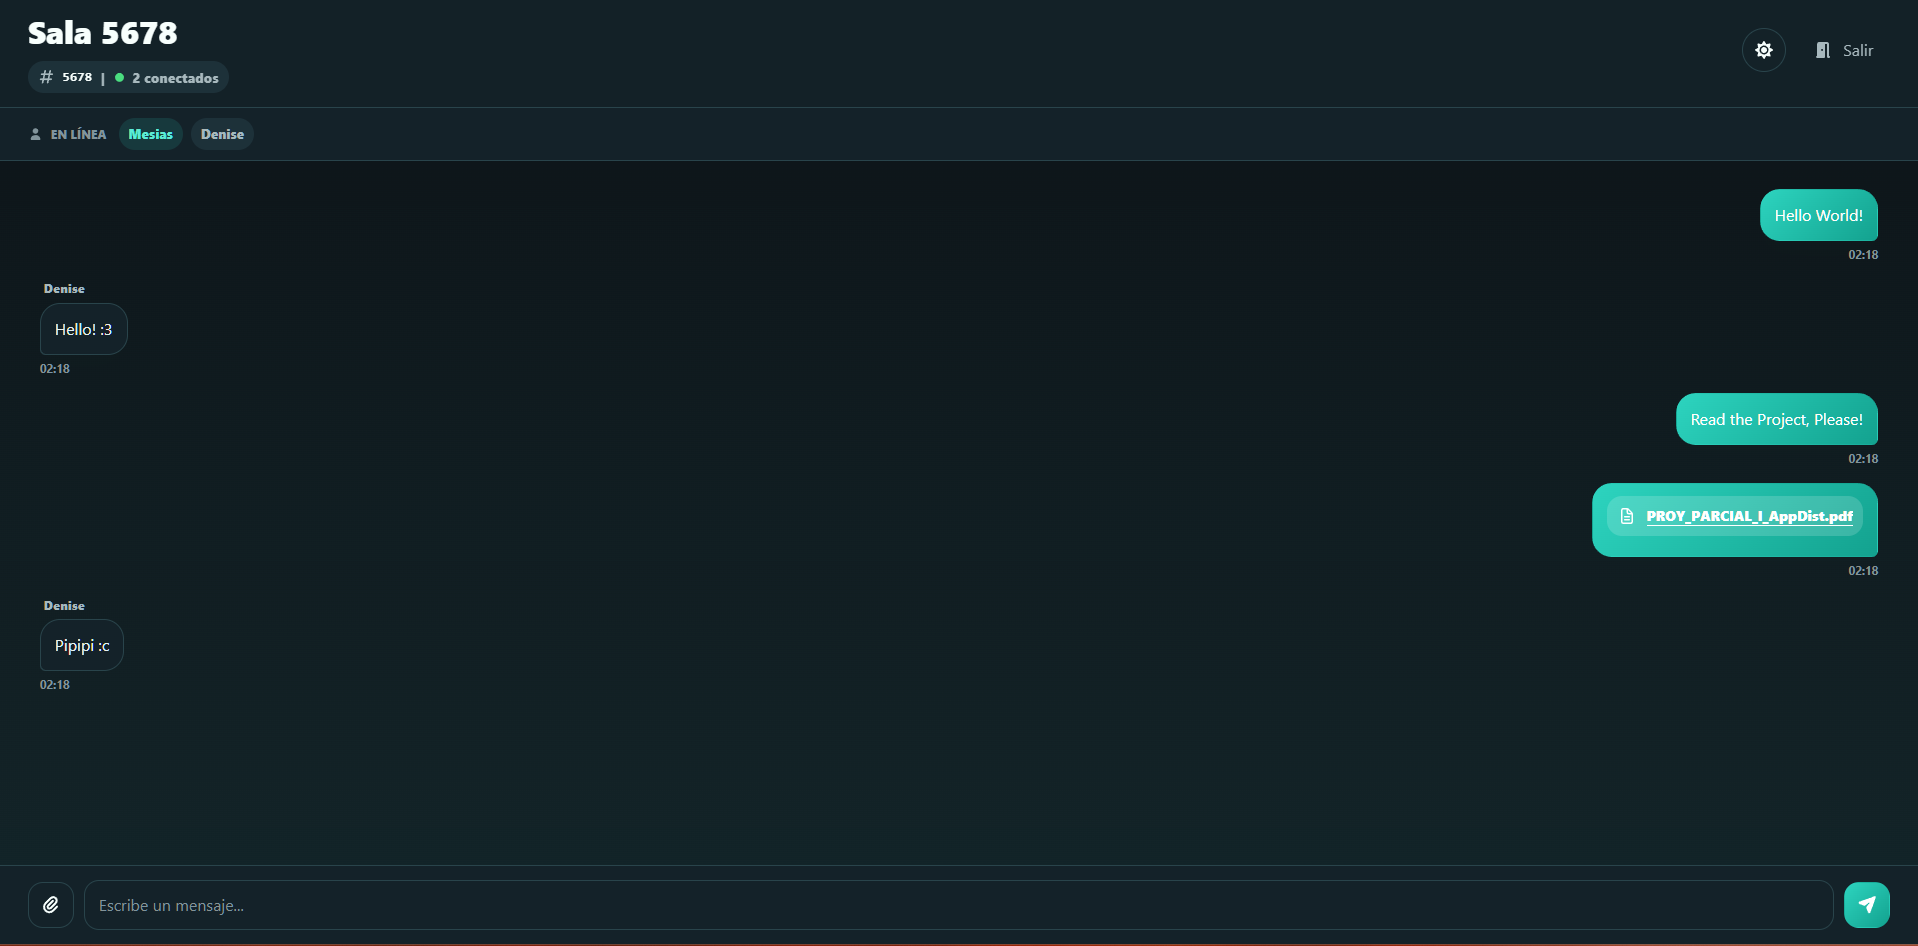
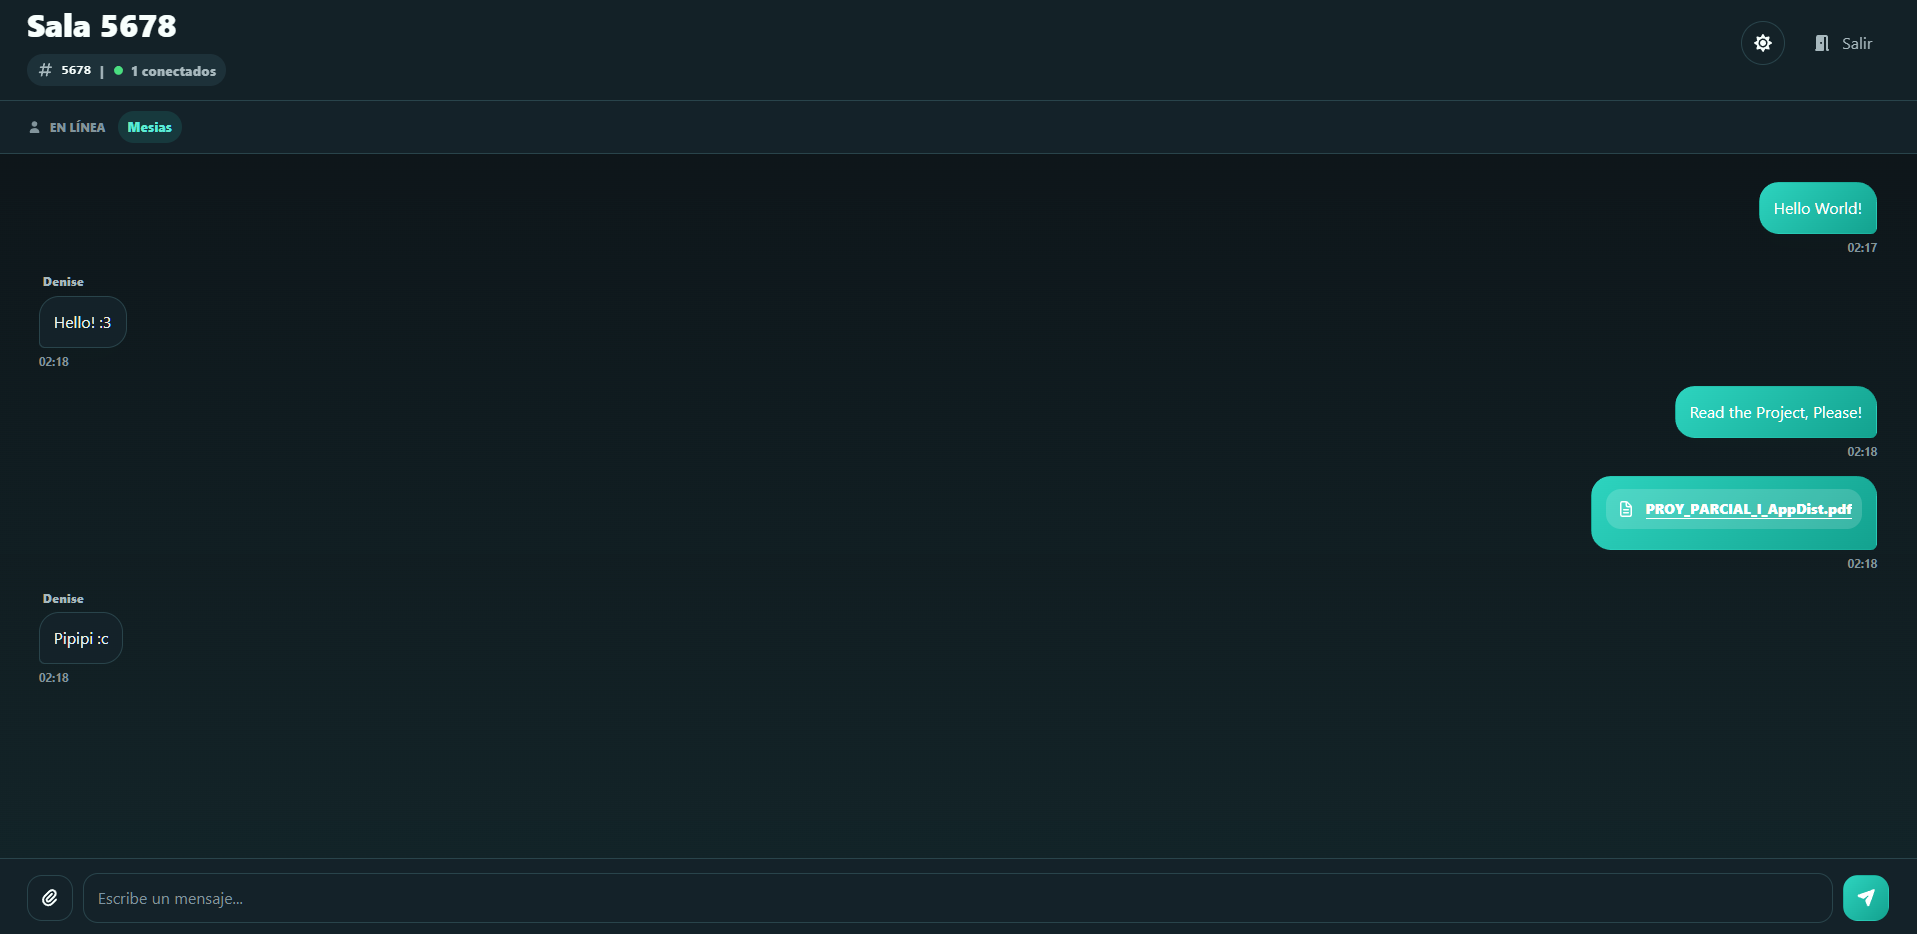
Refactor code structure for improved readability and maintainability

diff --git a/frontend/src/assets/index.css b/frontend/src/assets/index.css
@@ -705,7 +705,7 @@ img {
     align-items: center;
     justify-content: space-between;
     gap: 16px;
-    width: min(1180px, calc(100% - 32px));
+    width: calc(100% - clamp(32px, 4vw, 96px));
     margin-inline: auto;
     padding-block: 16px;
   }
@@ -725,7 +725,7 @@ img {
   }
 
   .dashboard-main {
-    width: min(1180px, calc(100% - 32px));
+    width: calc(100% - clamp(32px, 4vw, 96px));
     margin-inline: auto;
     padding-block: clamp(22px, 4vw, 38px);
   }
@@ -740,7 +740,7 @@ img {
 
   .dashboard-stats {
     display: grid;
-    grid-template-columns: repeat(3, minmax(0, 1fr));
+    grid-template-columns: repeat(auto-fit, minmax(220px, 1fr));
     gap: 14px;
     margin-bottom: 24px;
   }
@@ -769,7 +769,7 @@ img {
 
   .room-grid {
     display: grid;
-    grid-template-columns: repeat(3, minmax(0, 1fr));
+    grid-template-columns: repeat(auto-fit, minmax(260px, 1fr));
     gap: 18px;
   }
 
